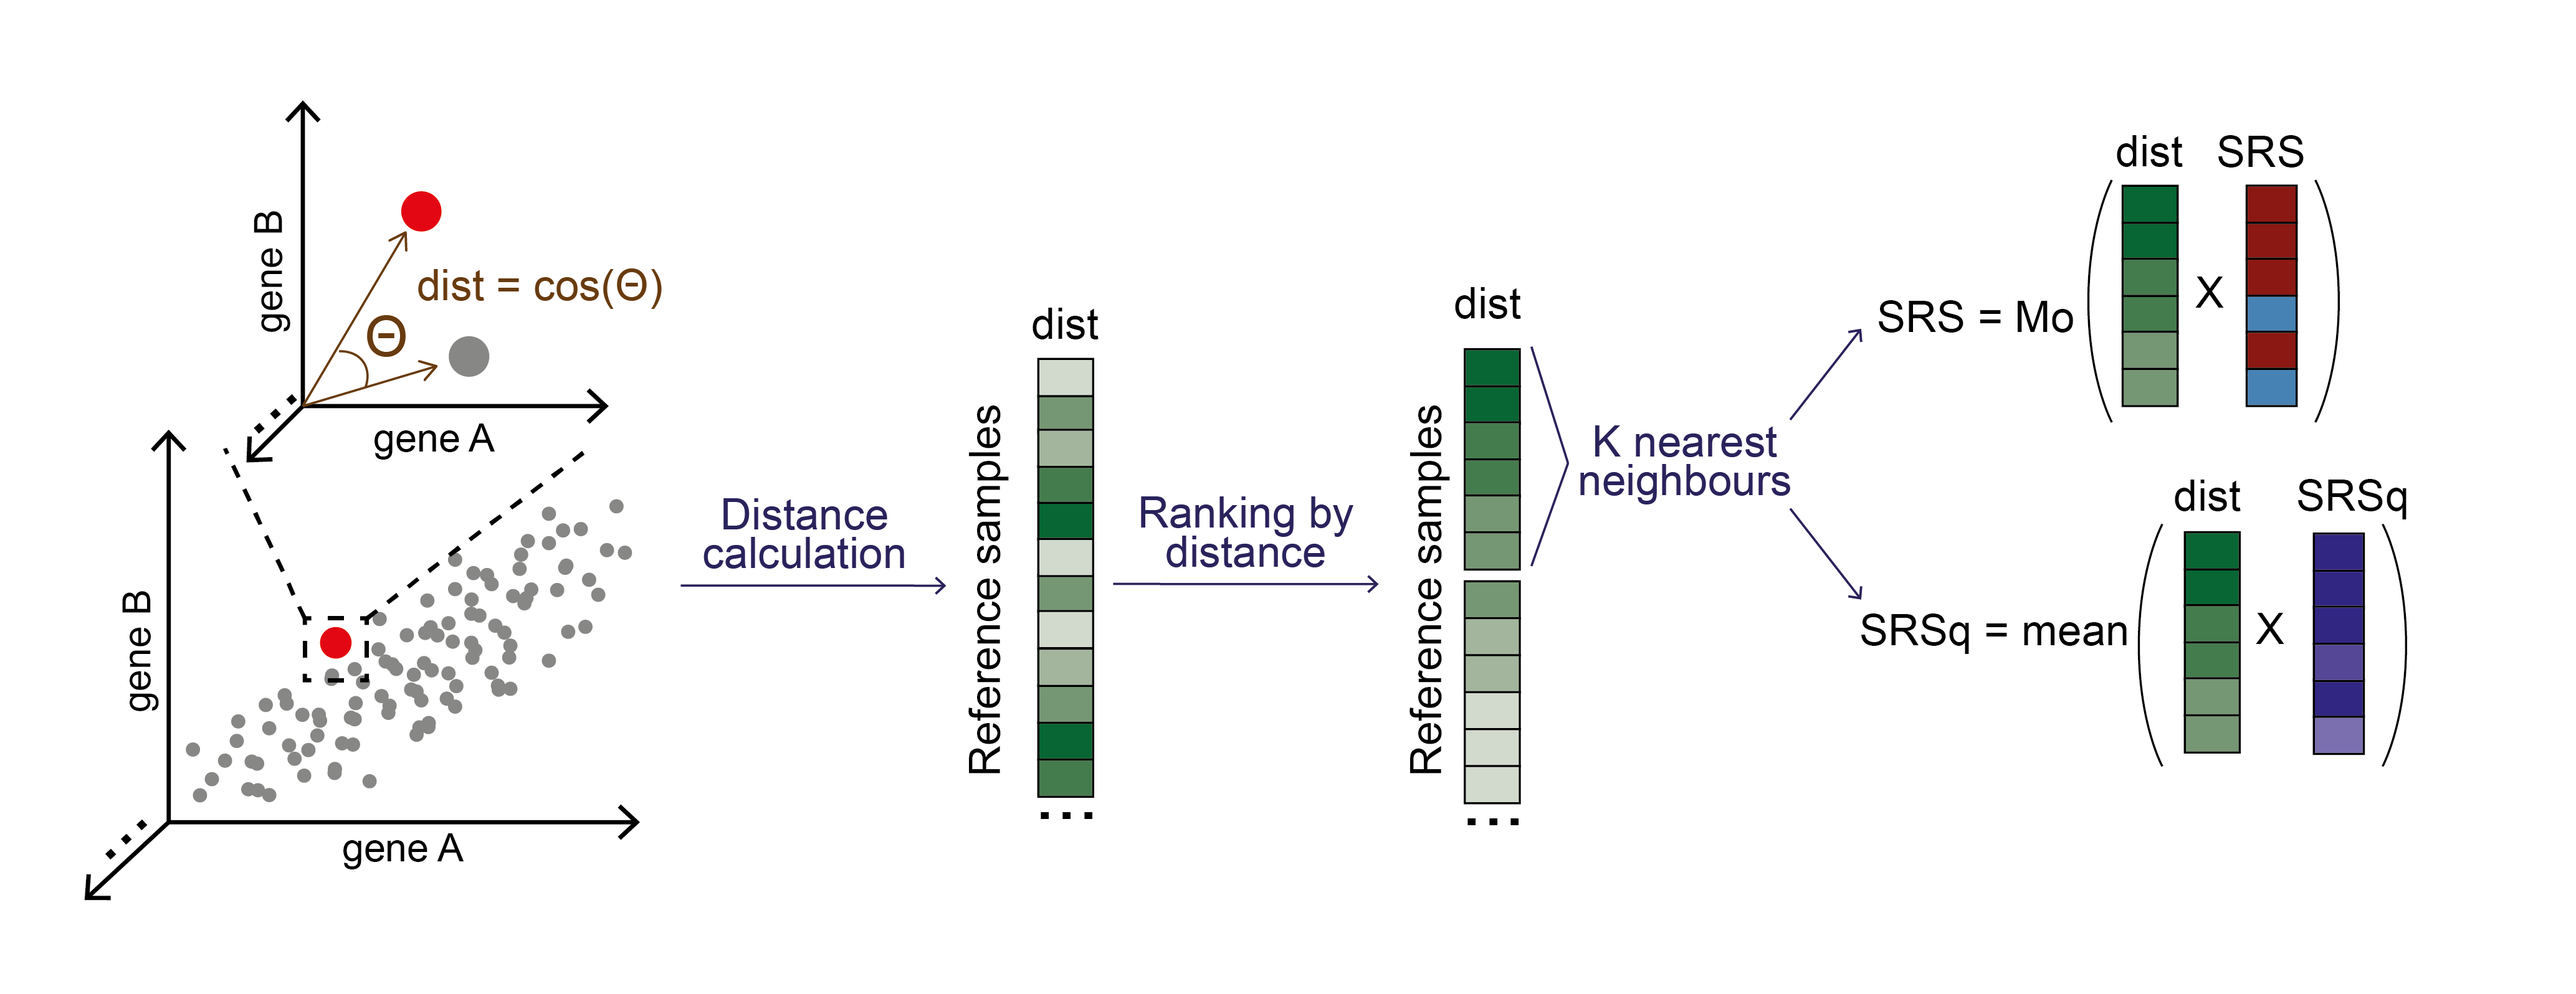
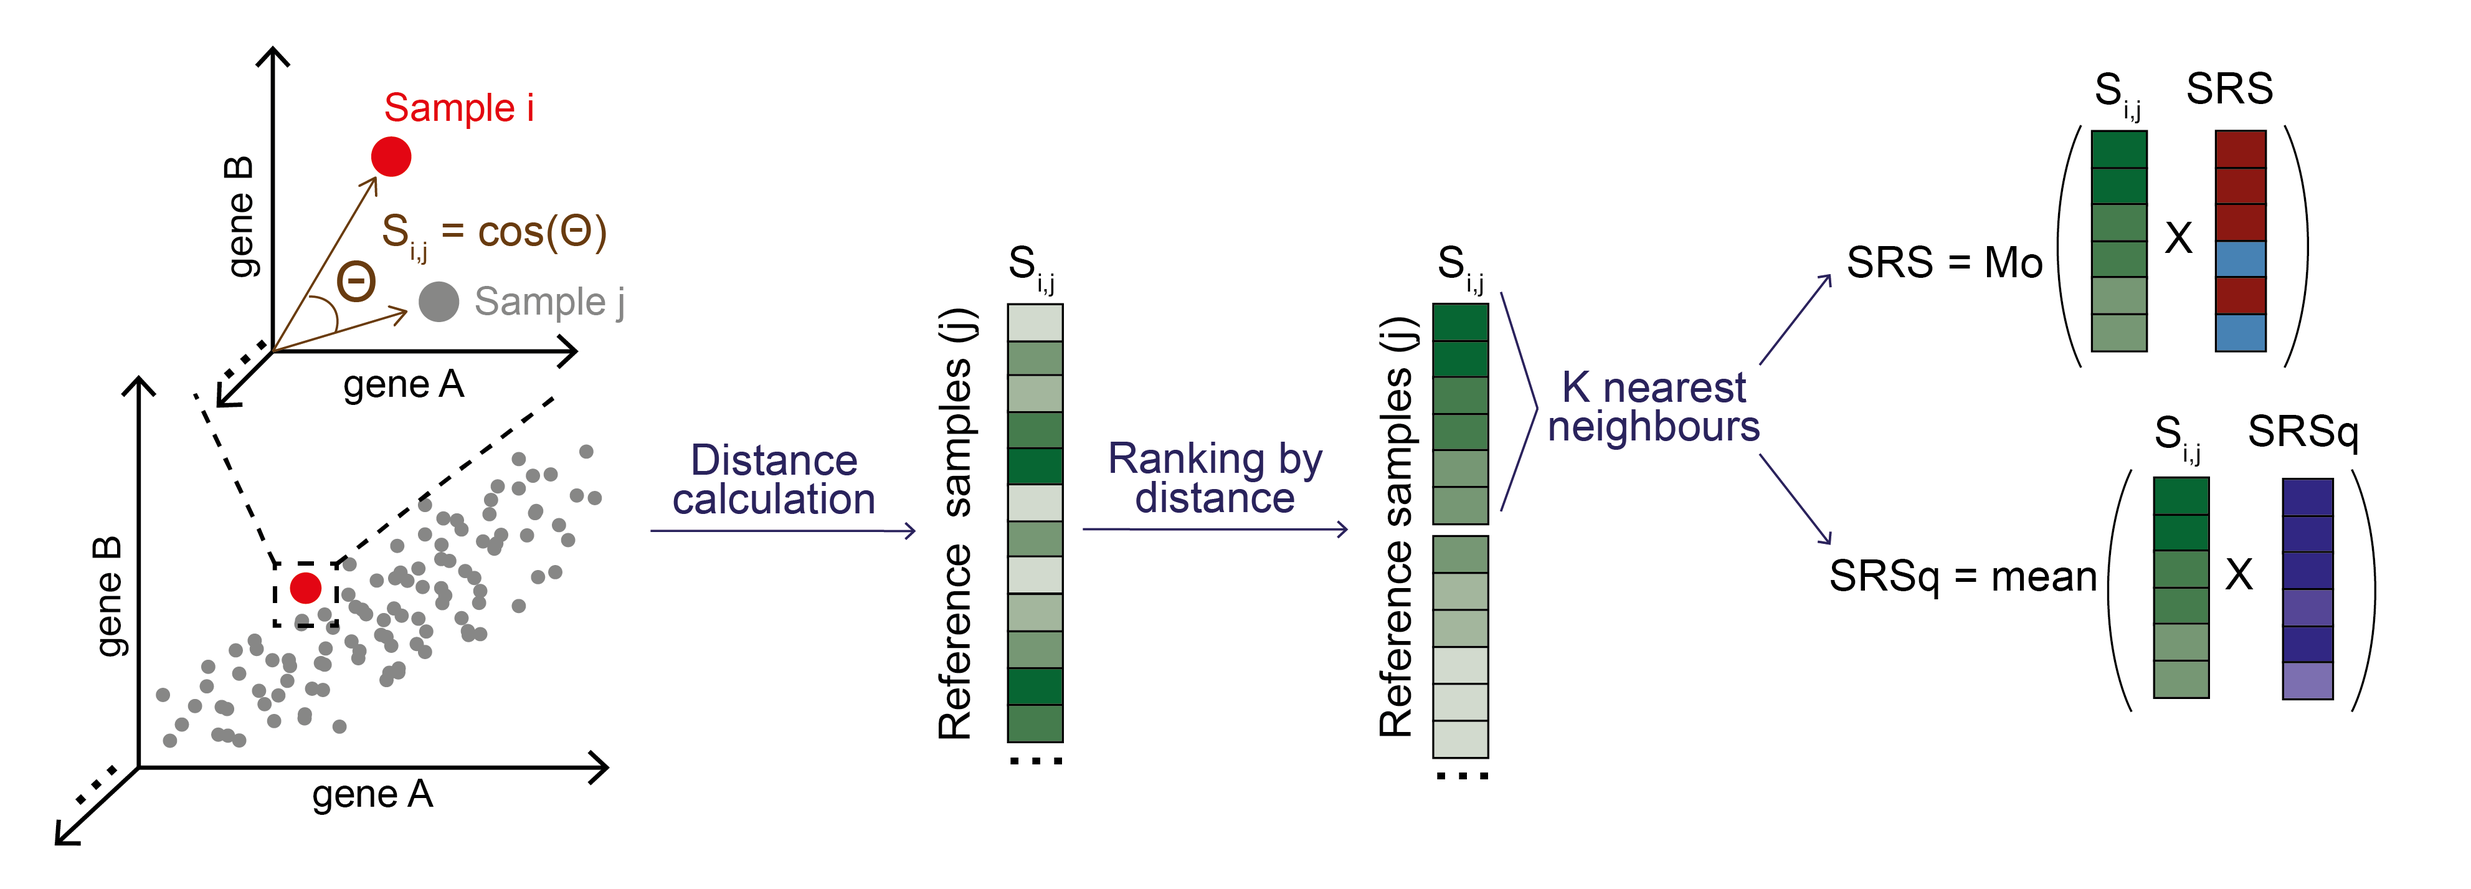
Updating README plots

diff --git a/README.md b/README.md
@@ -686,40 +686,40 @@ exclude at least a subset of the samples flagged as outliers.
 SepstratifieR relies on aligning samples to a reference gene expression
 set. This step requires the availability of information from multiple
 samples, which is used to identify shared patterns of variation between
-batches and achieve a high quality alignment. When dealing with a single
-sample, as well as in situations were only a limited number of samples
-is available, using the main SepstratifieR’s functions is not
-recommended. This is because instability in batch alignment makes
-predictions unreliable.
+batches and achieve a high quality alignment. Due to this requirement,
+we do not recommend using the main functions in SepstratifieR when
+dealing with a single sample or a limited sample size. This is because
+instability in batch alignment makes these predictions unreliable.
 
 Based on simulations and data subsampling, we estimate that the
-stratifyPatients() function should only be applied to data sets
-containing 25 or more samples.
+stratifyPatients() function should only be applied to data sets over 25
+samples.
 
 For situations where sample size is limited, we instead provide a
 purpose-built function which uses a ‘lazy learning’ approach to estimate
 SRS and SRSq. This approach is based on identifying the samples in our
 reference set which are most similar to the sample of interest
-(i.e. nearest neighbours), and then “projecting” the SRS and SRSq labels
-of these nearest neighbours into the sample in question. Similarity to
-the reference set is estimated using cosine similarities, which are
-independent of scale differences and thus robust to technical variation.
-Moreover, projection is based on a “majority vote” system, where each
-nearest neighbour contributes information proportionally to its
+(i.e. their nearest neighbours), and then “projecting” the SRS and SRSq
+labels of these nearest neighbours into the sample of interest.
+Similarities between sample are estimated using cosine similarities,
+which are independent of scale differences and thus robust to technical
+variation. Projection is then done using a “majority vote” system, where
+each nearest neighbour contributes information proportionally to its
 similarity to the sample of interest.
 
 The following diagram illustrates our lazy learning approach for patient
 stratification:
 
-![Schematic diagram of the analysis steps performed by the SepstratifieR
-package](./man/figures/README-sample-projection-approach.png)
+![Schematic diagram of the lazy learning approach for predicting
+SRS/SRSq in individual
+samples](./man/figures/README-sample-projection-approach.png)
 
 ### Model parameters and input variables
 
-Our lazy learning approach can be performed based on either of the two
+Our lazy learning algorithm can be performed using either of the two
 gene signatures, as specified by the user. Moreover, the number of
-nearest neighbours (k) used to estimate SRS/SRSq from majority voting
-can also be specified.
+nearest neighbours (k) used to estimate SRS/SRSq by majority voting can
+also be specified.
 
 For this function, we recommend that predictor variables have the
 following units:
@@ -733,11 +733,11 @@ intensity values
 
 **IMPORTANT NOTES:**
 
-1.  The expected units for qRT-PCR data are NOT the same in
+1.  The expected units for qRT-PCR data are not the same in
     stratifyPatients() than in projectPatient(). The latter function
     expects positive values (i.e. 2^-Cq).
 
-2.  The meaning of ‘k’ in this function is NOT the same as in
+2.  The meaning of ‘k’ in this function is not the same as in
     stratifyPatients(). The latter uses k for alignment but not for
     prediction. For lazy learning, ‘k’ has a direct impact on
     prediction.
@@ -750,6 +750,7 @@ sample.
 Let’s first choose one random sample from our test set:
 
 ``` r
+set.seed(2)
 test_sample <- test_data[sample(rownames(test_data),1),]
 ```
 
@@ -782,8 +783,8 @@ prediction
 #> 7 predictor variables
 #> 
 #> Predictor variables: ENSG00000152219, ENSG00000100814, ENSG00000127334, ENSG00000131355, ...
-#> SRS: SRS2
-#> SRSq: 0.6932546
+#> SRS: SRS3
+#> SRSq: 0.1028843
 ```
 
 Note that this function is not as accurate as stratifyPatients(), since
